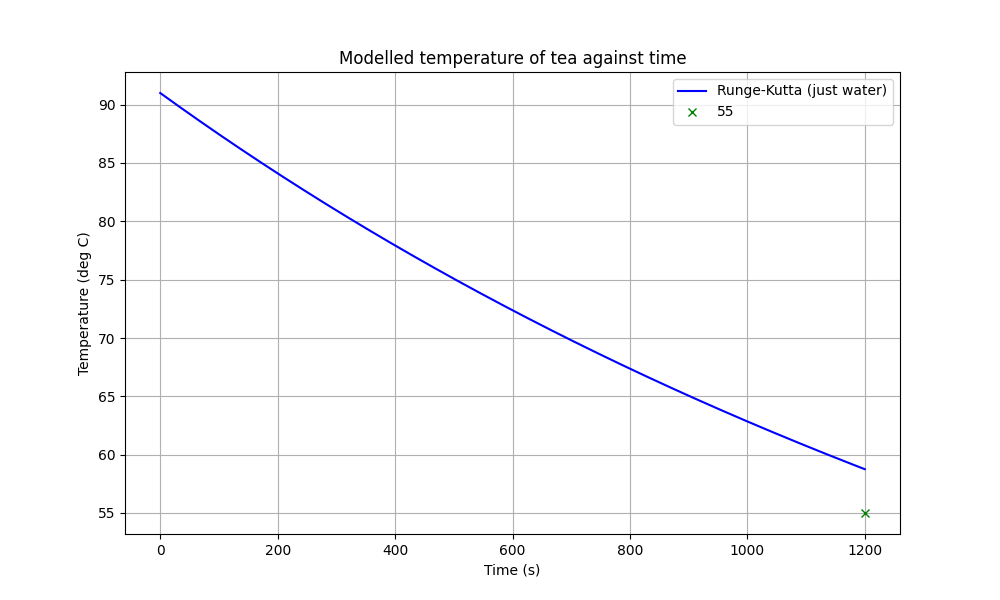
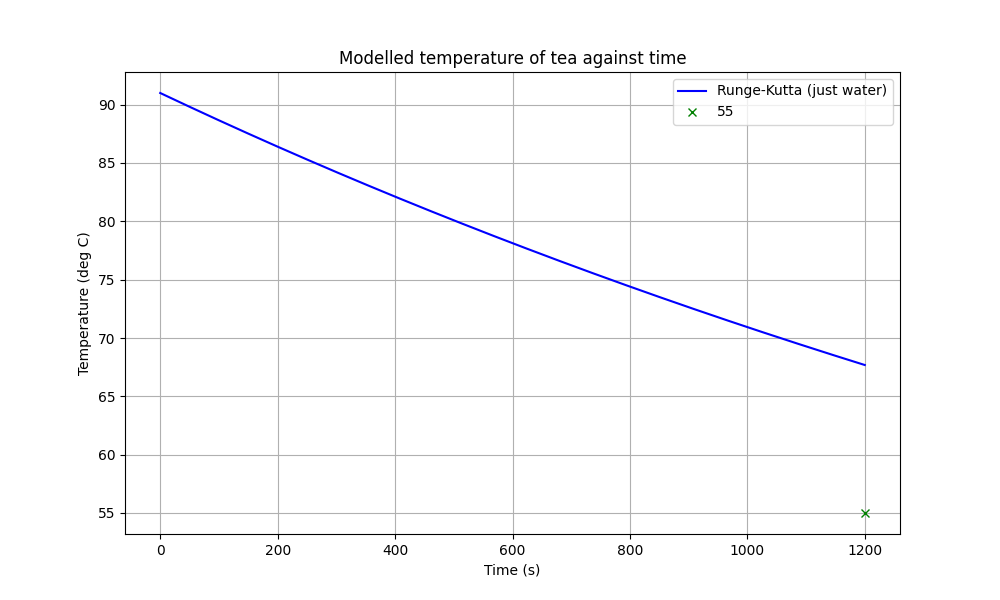
Tea project

diff --git a/main.py b/main.py
@@ -8,23 +8,25 @@ import scipy.constants as const
 from math import pi
 
 
-# function for the ODE
+# function for the differential equation
+# this, and the parameters in it can be modified
 def f(t, T):
     # assume parameters
     sigma = const.sigma
-    T_room = 289  # room temperature (K)
+    T_room = 292.15  # room temperature (K)
     k_mug = 1.5  # thermal conductivity of the mug material (W/m/K)
-    r = 0.04 # radius of the mug (m)
+    r = 0.045 # radius of the mug (m)
+    height = 0.06
     area = pi*r**2
-    area_surf = 2*pi*r*0.1 + area
+    area_surf = (2*pi*r*height) + (2*area)
     rho = 1000
-    m = rho * area * 0.05
+    m = rho * area * height
     cp = 4183  # specific heat capacity of the liquid (J/kg/K)
     h = 10  # convective heat transfer coefficient (W/m^2K)
-    d = 0.005  # thickness of the mug wall (m)
-    h_eff = 1/((d/k_mug) + (1/h))  # effective heat transfer coefficient considering conduction through the mug wall
+    d = 0.002  # thickness of the mug wall (m)
     em = 0.9  # emissivity of the mug surface
 
+    h_eff = 1 / ((d / k_mug) + (1 / h))  # effective heat transfer coefficient
     Q_dot_rad = em*sigma*area_surf*((T**4) - (T_room**4))
     Q_dot_cond_conv = h_eff*area_surf*(T - T_room)
 
@@ -33,6 +35,7 @@ def f(t, T):
     return dT_dt
 
 
+# runge-kutta (RK4) method
 def runge_kutta(t0, y0, t_end, h):
     t_values = np.arange(t0, t_end + h, h)
     y_values = np.zeros(len(t_values))
@@ -67,9 +70,10 @@ if __name__ == "__main__":
     # set parameters
     t0 = 0 # minutes
     # starting temperature (K)
-    y0 = 364.15
+    #y0 = 364.15
+    y0 = 356.15
     # how long to run the simulation (s)
-    t_end = 1200
+    t_end = 7200
     # step size
     h = 1
 
@@ -77,17 +81,18 @@ if __name__ == "__main__":
     t_values, y_values = runge_kutta(t0, y0, t_end, h)
     y_values -= 273.15  # convert to Celsius for plotting
     # Euler method
-    # t_values_euler, y_values_euler = euler(t0, y0, t_end, h)
+    #t_values_euler, y_values_euler = euler(t0, y0, t_end, h)
+    #y_values_euler -= 273.15
 
     # Plotting the results
     plt.figure(figsize=(10, 6))
     plt.plot(t_values, y_values,"-", label='Runge-Kutta (just water)', color='blue')
-    # plt.plot(t_values_euler, y_values_euler,".", label='Euler', color='red')
+    #plt.plot(t_values_euler/60, y_values_euler,".", label='Euler', color='red')
 
-    plt.plot(t_end, 55, "x", label='55', color='green')
+    plt.plot(t_end, 19, "x", label='19 (room temp)', color='green')
 
     plt.title("Modelled temperature of tea against time")
-    plt.xlabel("Time (s)")
+    plt.xlabel("Time (minutes)")
     plt.ylabel("Temperature (deg C)")
     plt.legend()
     plt.grid()
